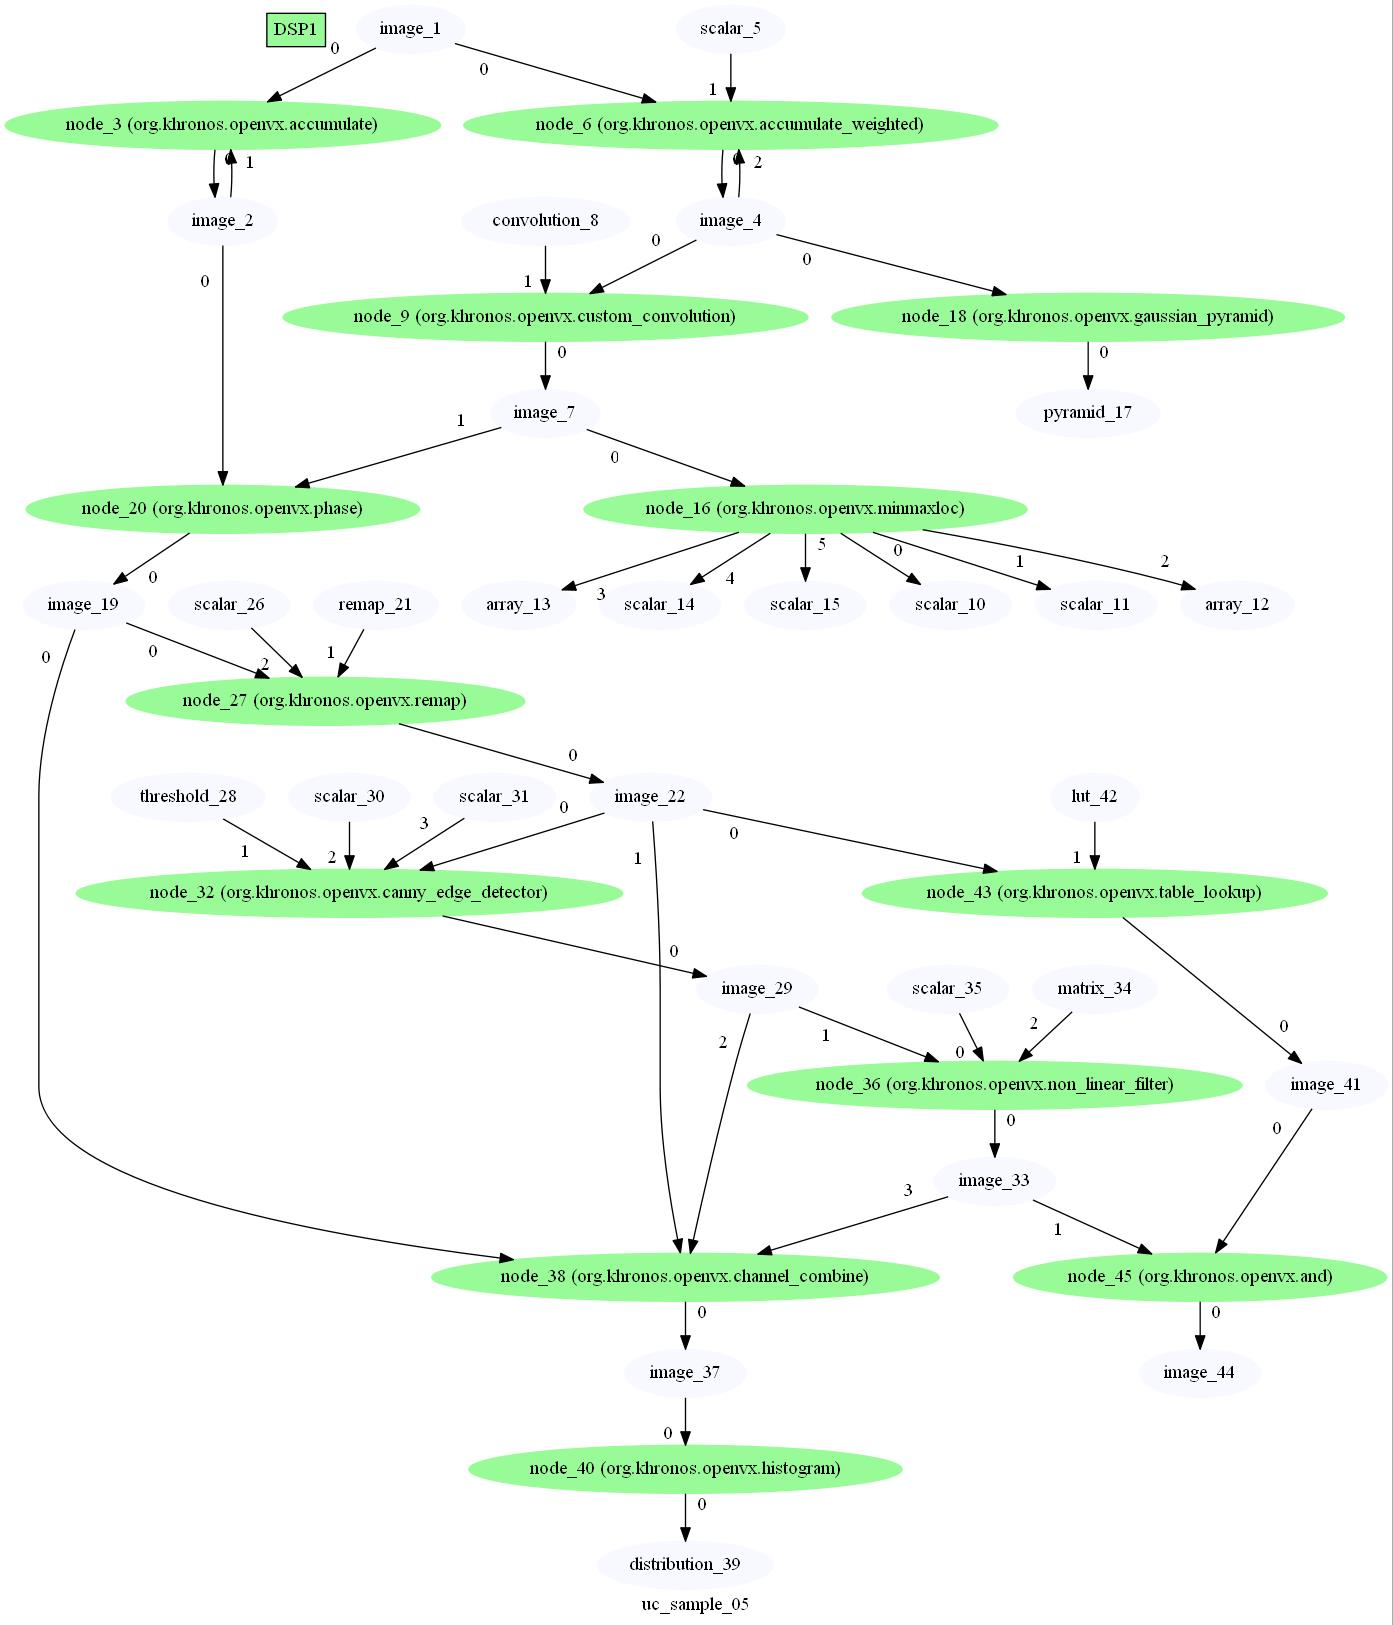
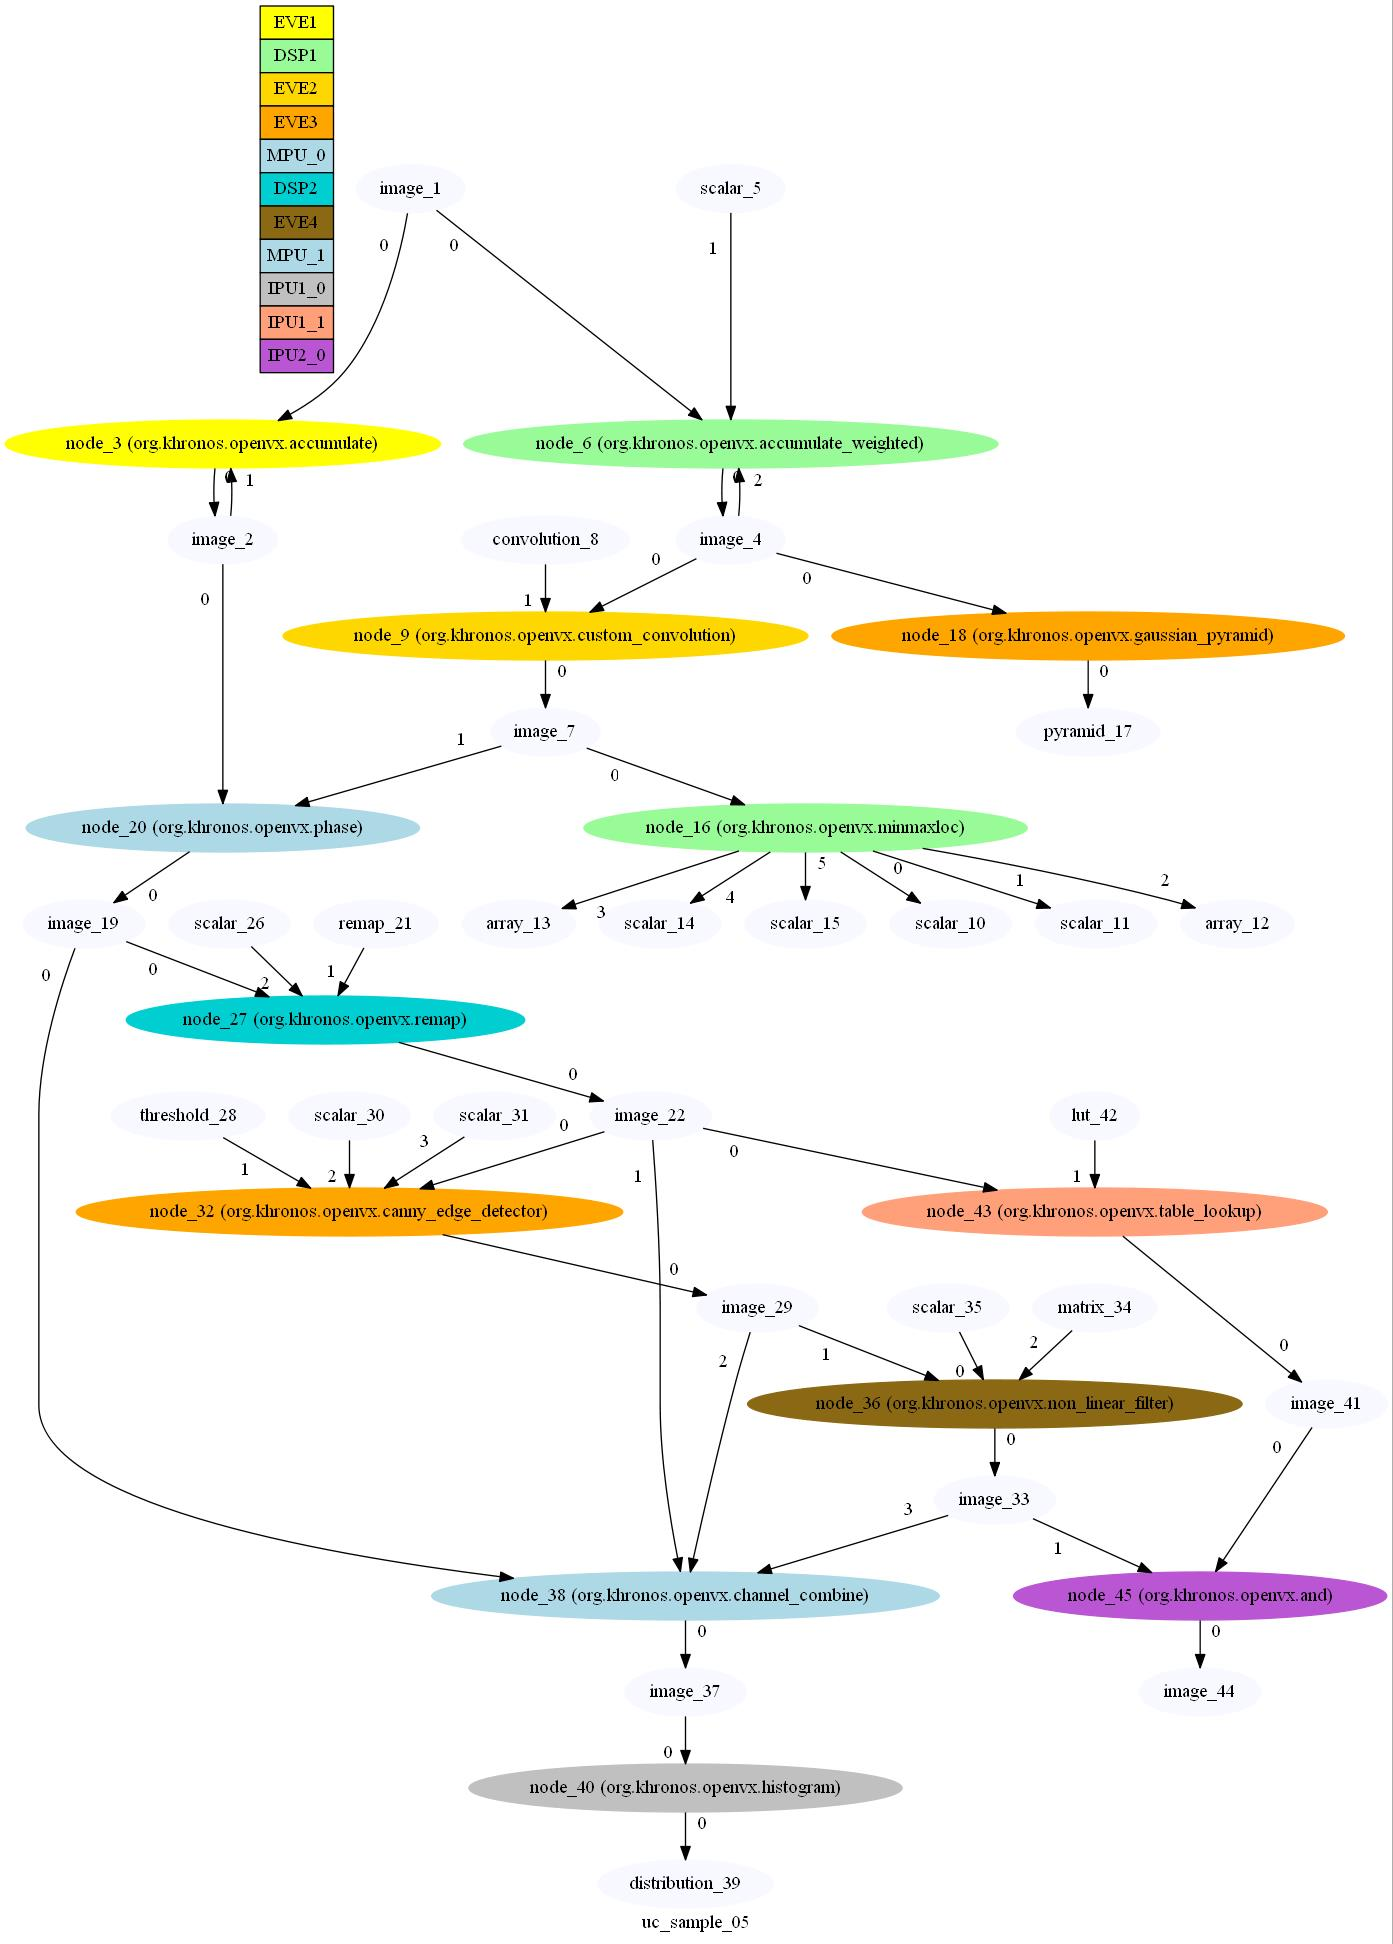
[PyTIOVX] More updates

diff --git a/tools/sample_use_cases/uc_sample_05.py b/tools/sample_use_cases/uc_sample_05.py
@@ -14,7 +14,7 @@ graph = Graph()
 
 img_in = Image(640, 480, DfImage.U8)
 img_out_acc = Image(640, 480, DfImage.S16)
-node_acc = NodeAccumulateImage(img_in, img_out_acc);
+node_acc = NodeAccumulateImage(img_in, img_out_acc, target=Target.EVE1);
 
 img_out_acc_w = Image(640, 480, DfImage.U8)
 alpha = Scalar(Type.UINT8)
@@ -23,7 +23,7 @@ node_acc_w = NodeAccumulateWeightedImage(img_in, alpha, img_out_acc_w );
 img_out_conv = Image(640, 480, DfImage.S16)
 
 conv = Convolution(3, 3)
-node_conv = NodeConvolve(img_out_acc_w, conv, img_out_conv);
+node_conv = NodeConvolve(img_out_acc_w, conv, img_out_conv, target=Target.EVE2);
 
 
 sc_min1 = Scalar(Type.ENUM, 0);
@@ -36,38 +36,38 @@ sc_max_cnt = Scalar(Type.ENUM, 0)
 node_minmaxloc = NodeMinMaxLoc(img_out_conv, sc_min1, sc_max1, arr_minmax_out1, arr_minmax_out2, sc_min_cnt, sc_max_cnt);
 
 gaussian_pyr = Pyramid(5, 1, 640, 480, DfImage.U8)
-node_gaussian_pyramid = NodeGaussianPyramid(img_out_acc_w, gaussian_pyr);
+node_gaussian_pyramid = NodeGaussianPyramid(img_out_acc_w, gaussian_pyr, target=Target.EVE3);
 
 img_out_phase = Image(640, 480, DfImage.U8)
-node_phase = NodePhase(img_out_acc, img_out_conv, img_out_phase)
+node_phase = NodePhase(img_out_acc, img_out_conv, img_out_phase, target=Target.MPU_0)
 
 remap = Remap(640, 480, 1280, 720);
 img_out_remap = Image(1280, 720, DfImage.U8);
-node_remap = NodeRemap(img_out_phase, remap, InterpolationType.BILINEAR, img_out_remap);
+node_remap = NodeRemap(img_out_phase, remap, InterpolationType.BILINEAR, img_out_remap, target=Target.DSP1);
 
 img_out_laplacian = Image(1280, 720, DfImage.U8)
-node_remap = NodeRemap(img_out_phase, remap, InterpolationType.BILINEAR, img_out_remap);
+node_remap = NodeRemap(img_out_phase, remap, InterpolationType.BILINEAR, img_out_remap, target=Target.DSP2);
 
 thr_canny = Threshold(0, Type.UINT8)
 img_out_canny = Image(1280, 720, DfImage.U8);
-node_canny_edge_detect = NodeCannyEdgeDetector(img_out_remap, thr_canny, 100, 0, img_out_canny)
+node_canny_edge_detect = NodeCannyEdgeDetector(img_out_remap, thr_canny, 100, 0, img_out_canny, target=Target.EVE3)
 
 img_out_nonlinear_filter = Image(1280, 720, DfImage.U8);
 nonlinear_matrix = Matrix(Type.UINT8, 3, 3)
-node_nonlinear_filter = NodeNonLinearFilter(NonLinearFilter.Min, img_out_canny, nonlinear_matrix, img_out_nonlinear_filter)
+node_nonlinear_filter = NodeNonLinearFilter(NonLinearFilter.Min, img_out_canny, nonlinear_matrix, img_out_nonlinear_filter, target=Target.EVE4)
 
 img_out_combine = Image(1280, 720, DfImage.U8)
-node_combine = NodeChannelCombine(img_out_phase, img_out_remap, img_out_canny, img_out_nonlinear_filter, img_out_combine)
+node_combine = NodeChannelCombine(img_out_phase, img_out_remap, img_out_canny, img_out_nonlinear_filter, img_out_combine, target=Target.MPU_1)
 
 dist = Distribution(10, 1, 100)
-node_histogram = NodeHistogram(img_out_combine, dist);
+node_histogram = NodeHistogram(img_out_combine, dist, target=Target.IPU1_0);
 
 img_out_lut = Image(1280, 720, DfImage.U8)
 lut = Lut(Type.UINT8, 255)
-node_lut = NodeTableLookup(img_out_remap, lut, img_out_lut);
+node_lut = NodeTableLookup(img_out_remap, lut, img_out_lut, target=Target.IPU1_1);
 
 img_out_and = Image(1280, 720, DfImage.U8);
-node_and = NodeAnd(img_out_lut, img_out_nonlinear_filter, img_out_and)
+node_and = NodeAnd(img_out_lut, img_out_nonlinear_filter, img_out_and, target=Target.IPU2_0)
 
 graph.add ( node_acc )
 graph.add ( node_acc_w )
